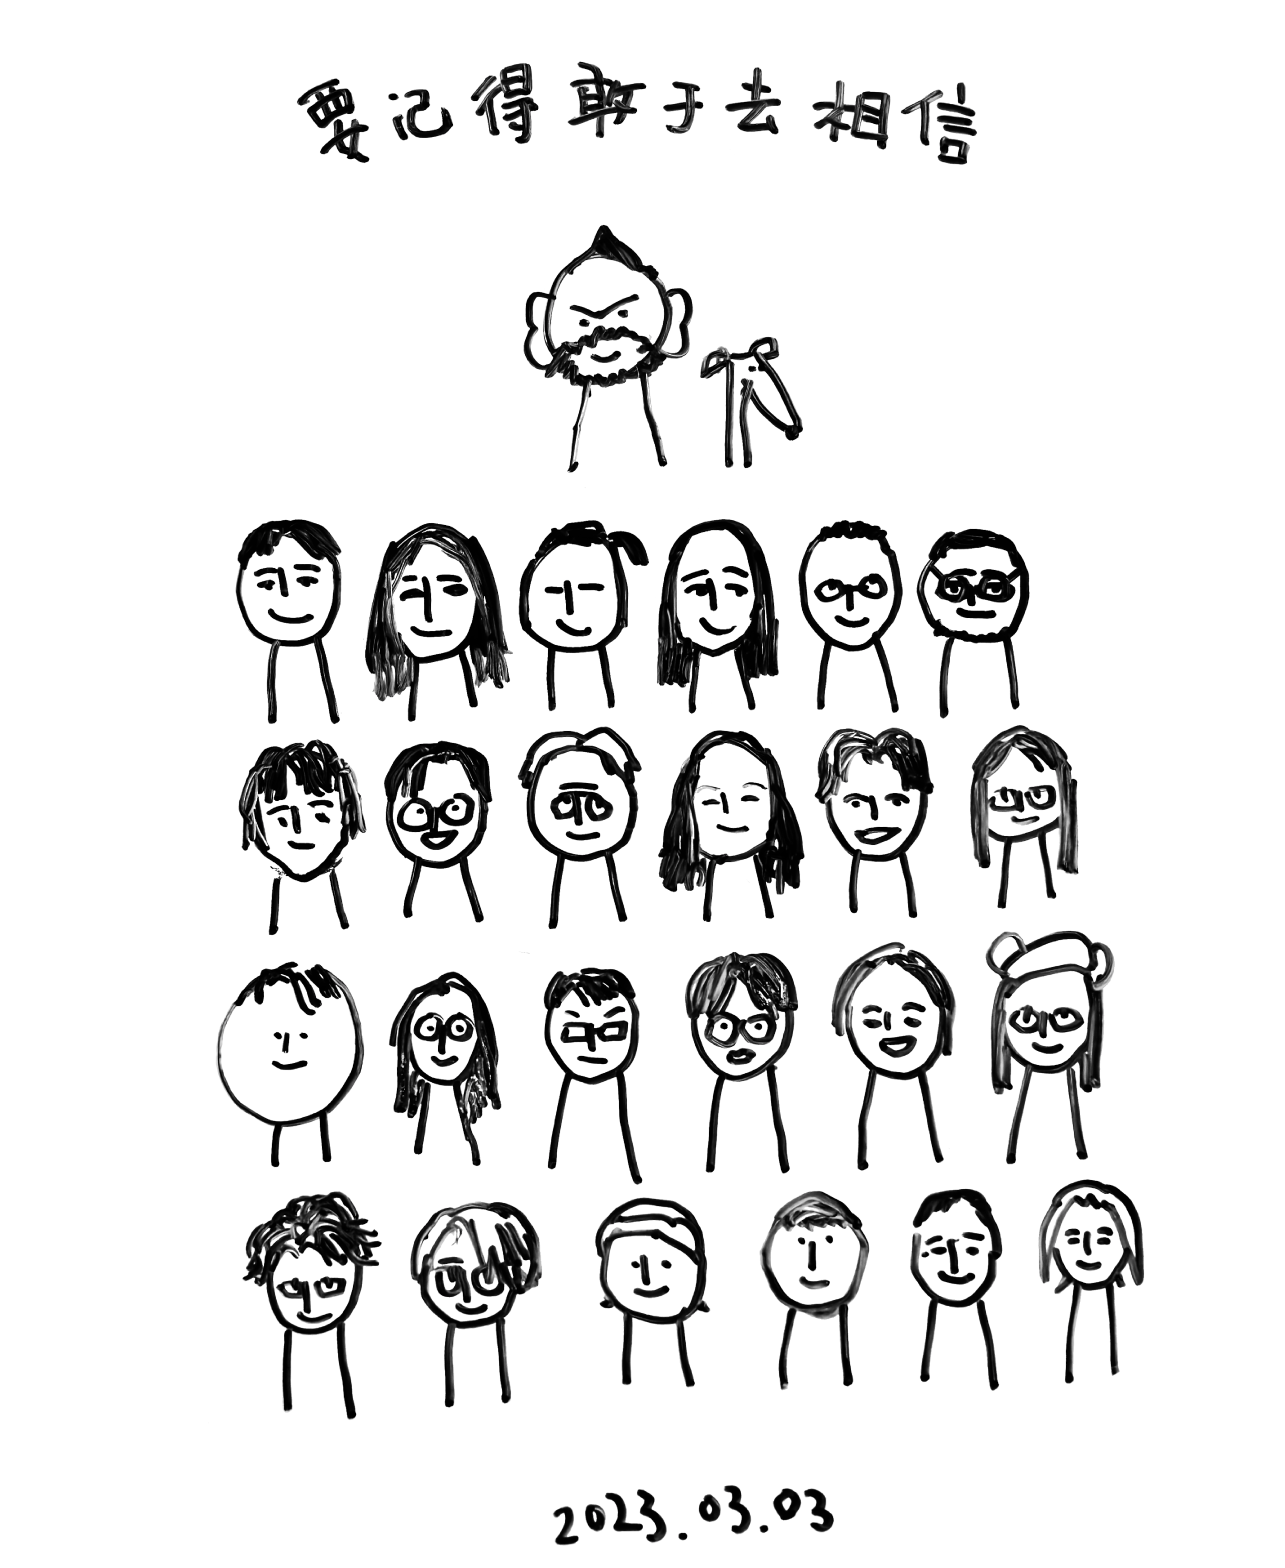
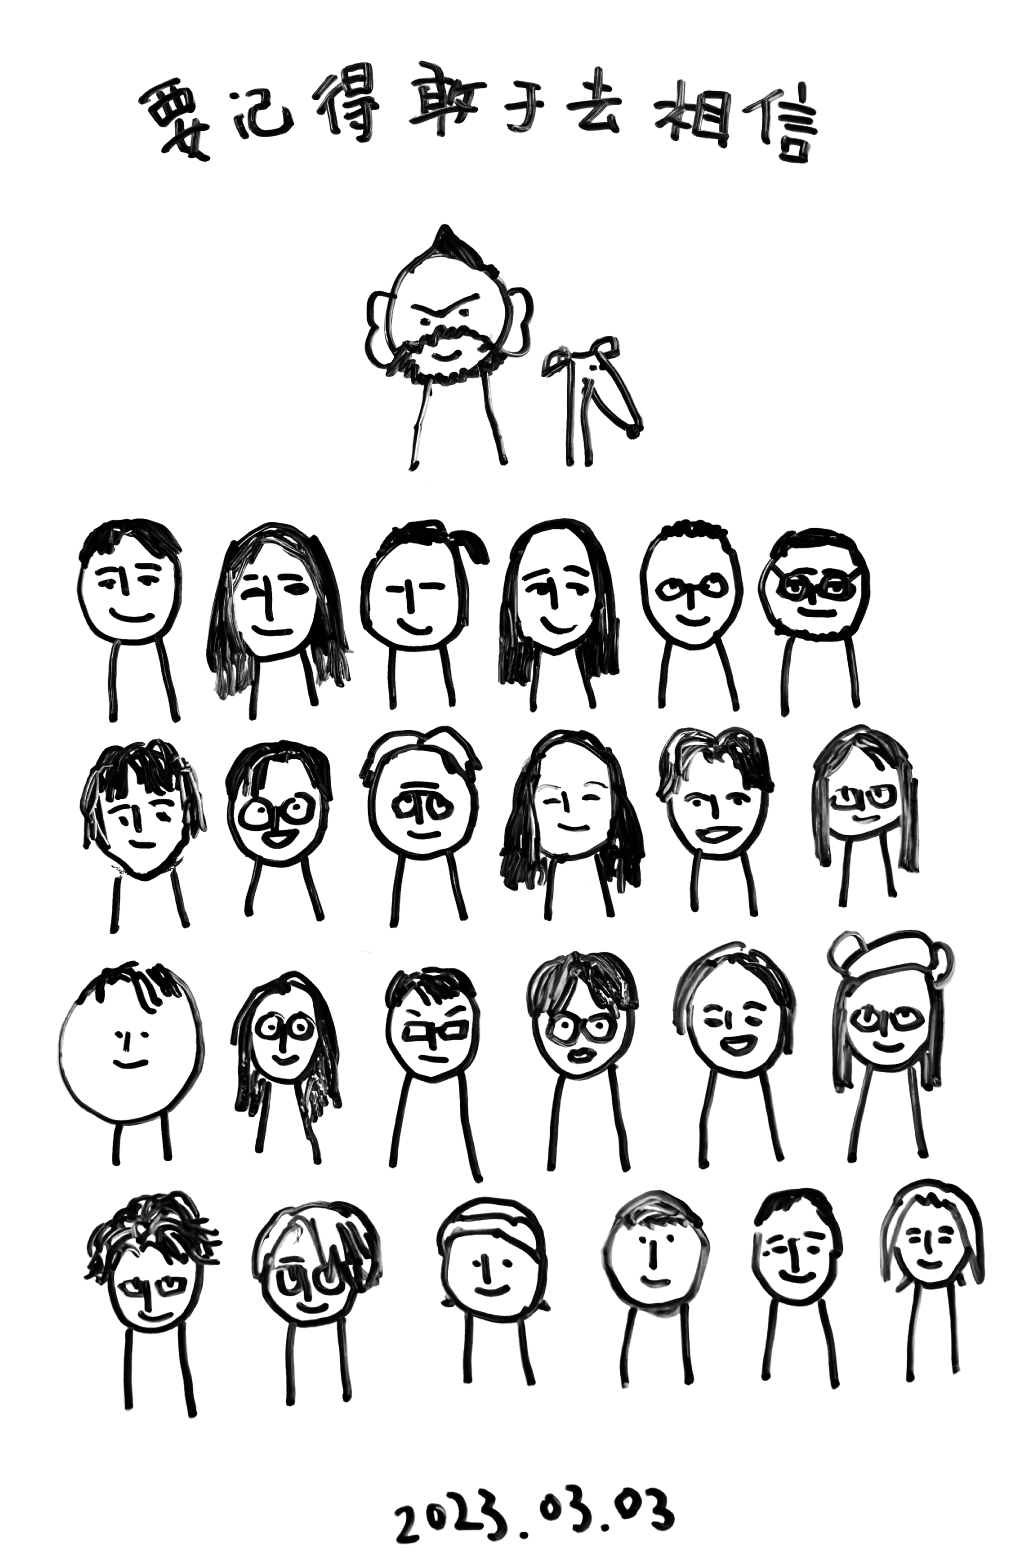
fit to mobile screen

diff --git a/src/foundation/P5Frame.tsx b/src/foundation/P5Frame.tsx
@@ -1,21 +1,34 @@
 import { useEffect } from 'react';
 import { useRefWithUpdate } from '../hooks/useCallbackRef';
 import p5 from 'p5';
+import styled from 'styled-components';
+
+const Container = styled.div`
+  width: 100%;
+`;
 
 function P5Frame(props: { sketch: (p: p5) => void }) {
-  const canvasRef = useRefWithUpdate<HTMLDivElement>();
-  const canvasNode = canvasRef.current;
+  const canvasContainerRef = useRefWithUpdate<HTMLDivElement>();
+  const canvasContainerNode = canvasContainerRef.current;
   const { sketch } = props;
   useEffect(() => {
     let pInstance: p5;
-    if (canvasNode) {
-      pInstance = new p5(sketch, canvasNode);
+    if (canvasContainerNode) {
+      pInstance = new p5(sketch, canvasContainerNode);
+      setTimeout(() => {
+        const canvas = canvasContainerNode.querySelector('canvas');
+        if (canvas) {
+          const scaleFactor = canvasContainerNode.clientWidth / canvas.width;
+          canvas.style.transform = `scale(${scaleFactor})`;
+          canvas.style.transformOrigin = '0 0';
+        }
+      }, 1000);
     }
     return () => {
       pInstance?.remove();
     };
-  }, [canvasNode, sketch]);
-  return <div ref={canvasRef} />;
+  }, [canvasContainerNode, sketch]);
+  return <Container ref={canvasContainerRef} />;
 }
 
 export { P5Frame };

diff --git a/src/projects/ToBelieve/ToBelieve.tsx b/src/projects/ToBelieve/ToBelieve.tsx
@@ -1,4 +1,3 @@
-import React from 'react';
 import p5 from 'p5';
 import { P5Frame } from '../../foundation/P5Frame';
 import { Emitter } from './Emitter';
@@ -7,13 +6,13 @@ import { Emitter } from './Emitter';
 function toBelieveSketch(p: p5) {
   let emitter: Emitter;
   p.setup = () => {
-    const w = p.windowWidth;
-    p.createCanvas(w, w * 1.3);
+    const w = 800;
+    p.createCanvas(w, w * 1.6);
     // p.createCanvas(400, 400);
     p.background(0);
     p.noStroke();
     p.pixelDensity(1);
-    emitter = new Emitter(p, 50000);
+    emitter = new Emitter(p, 7000);
   };
 
   const render = () => {
@@ -35,7 +34,7 @@ function toBelieveSketch(p: p5) {
 
 const MainPage = () => {
   return (
-    <div>
+    <div id="test">
       <P5Frame sketch={toBelieveSketch} />
     </div>
   );

diff --git a/src/projects/ToBelieve/Particle.ts b/src/projects/ToBelieve/Particle.ts
@@ -1,8 +1,8 @@
 import {
   BaseParticle,
   BaseParticleConfig,
-} from "../../foundation/particleSystem/BaseParticle";
-import { NoiseLoop } from "../../foundation/utils/NoiseLoop";
+} from '../../foundation/particleSystem/BaseParticle';
+import { NoiseLoop } from '../../foundation/utils/NoiseLoop';
 
 type ParticleConfig = BaseParticleConfig & {
   transparency: number;
@@ -21,9 +21,9 @@ export class Particle extends BaseParticle {
       this.p.random(-0.3, 0.3)
     );
 
-    const diameter = 2;
-    const offsetMax = 3;
-    const offsetMin = -3;
+    const diameter = 3;
+    const offsetMax = 5;
+    const offsetMin = -5;
     this.xNoiseLoop = new NoiseLoop(
       this.p,
       this.p.random(diameter),

diff --git a/public/index.html b/public/index.html
@@ -3,7 +3,7 @@
   <head>
     <meta charset="utf-8" />
     <link rel="icon" href="%PUBLIC_URL%/favicon.ico" />
-    <meta name="viewport" content="width=device-width, initial-scale=1" />
+    <!-- <meta name="viewport" content="width=device-width, initial-scale=1" /> -->
     <meta name="theme-color" content="#000000" />
     <meta
       name="description"

diff --git a/src/projects/DistortedSpirit/DistortedSpirit.tsx b/src/projects/DistortedSpirit/DistortedSpirit.tsx
@@ -14,6 +14,7 @@ function distortedSpiritSketch(p: p5) {
   p.setup = function () {
     p.frameRate(30);
     p.createCanvas(canvasWidth, canvasHeight);
+    p.pixelDensity(1);
   };
 
   p.draw = function () {
